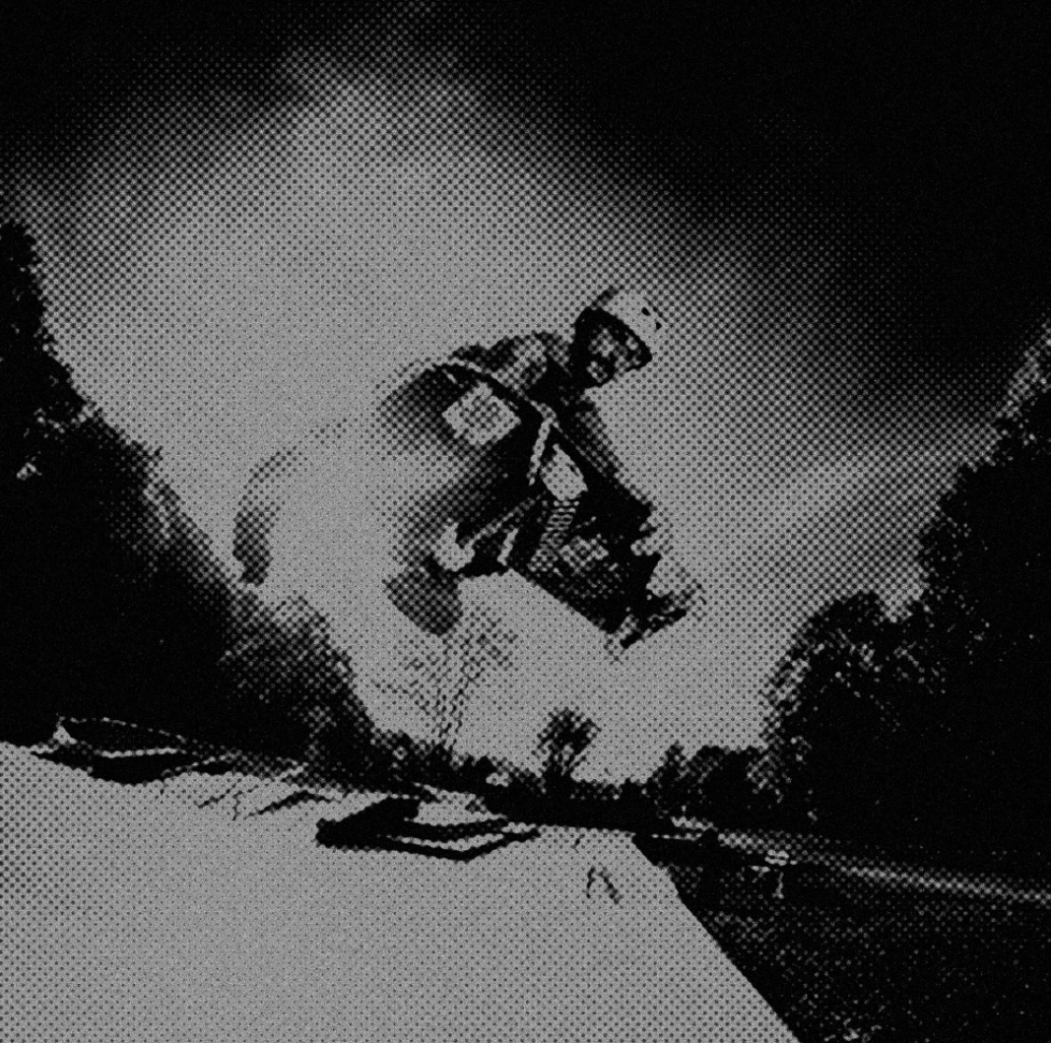
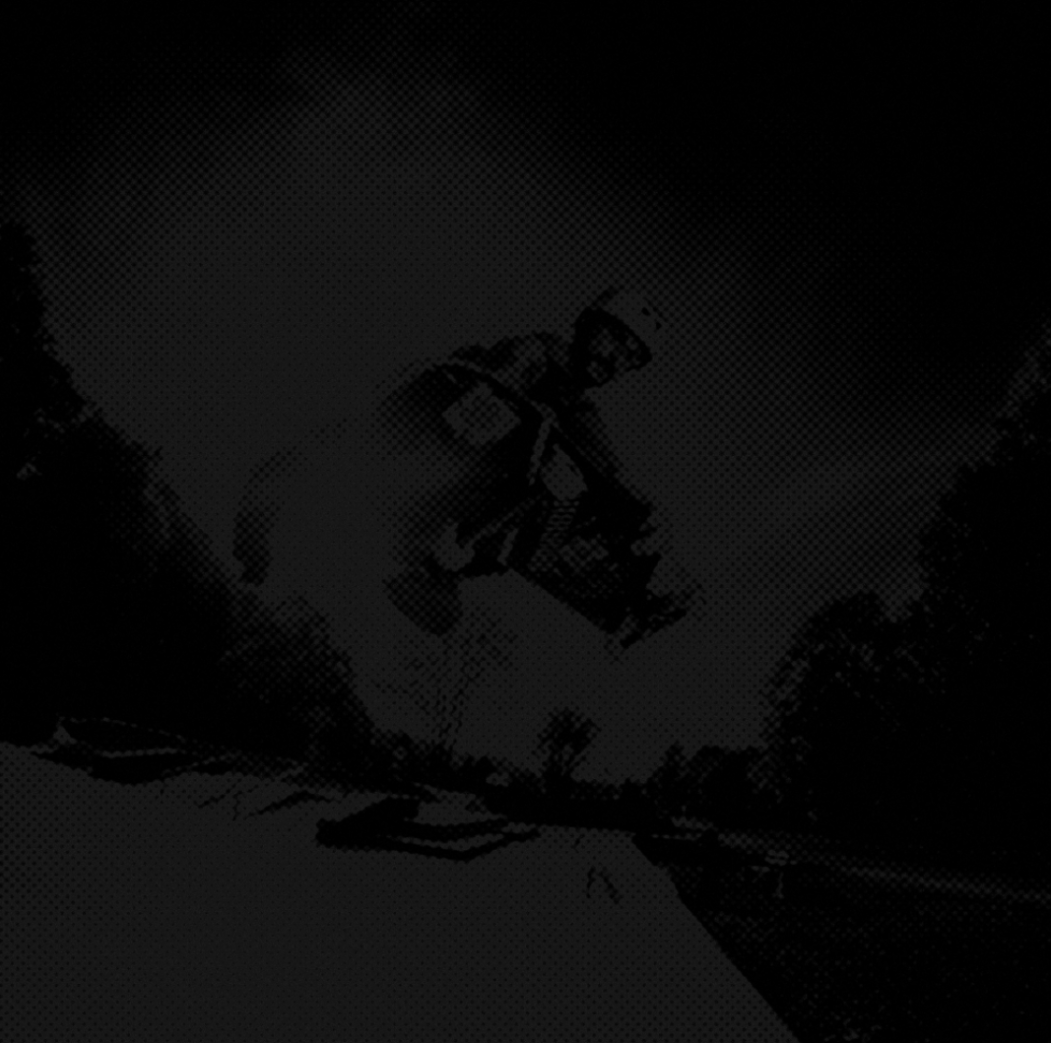
Home: Our Collection: Div Styling + bg Image file

diff --git a/client/src/app/pages/home/sections/our-collection/dummy data.ts b/client/src/app/pages/home/sections/our-collection/dummy data.ts
@@ -19,49 +19,48 @@ export const dummdata: object[] = [
         id: 1,
         type: 'legacy'
     },
-    {
-        id: 1,
-        type: 'legacy'
-    },
-    {
-        id: 1,
-        type: 'legacy'
-    },
-    {
-        id: 1,
-        type: 'legacy'
-    },
-    {
-        id: 1,
-        type: 'legacy'
-    },
-    {
-        id: 1,
-        type: 'legacy'
-    },
-    {
-        id: 1,
-        type: 'legacy'
-    },
-    {
-        id: 1,
-        type: 'legacy'
-    },
-    {
-        id: 1,
-        type: 'legacy'
-    },
-    {
-        id: 1,
-        type: 'legacy'
-    },
-    {
-        id: 1,
-        type: 'legacy'
-    },
-    {
-        id: 1,
-        type: 'legacy'
-    },
-
+    // {
+    //     id: 1,
+    //     type: 'legacy'
+    // },
+    // {
+    //     id: 1,
+    //     type: 'legacy'
+    // },
+    // {
+    //     id: 1,
+    //     type: 'legacy'
+    // },
+    // {
+    //     id: 1,
+    //     type: 'legacy'
+    // },
+    // {
+    //     id: 1,
+    //     type: 'legacy'
+    // },
+    // {
+    //     id: 1,
+    //     type: 'legacy'
+    // },
+    // {
+    //     id: 1,
+    //     type: 'legacy'
+    // },
+    // {
+    //     id: 1,
+    //     type: 'legacy'
+    // },
+    // {
+    //     id: 1,
+    //     type: 'legacy'
+    // },
+    // {
+    //     id: 1,
+    //     type: 'legacy'
+    // },
+    // {
+    //     id: 1,
+    //     type: 'legacy'
+    // },
 ]

diff --git a/client/src/app/pages/home/sections/our-collection/our-collection.component.css b/client/src/app/pages/home/sections/our-collection/our-collection.component.css
@@ -1,10 +1,13 @@
 .home-ourcollection {
-    border-top: 1px solid #2e2e2e;
+    border-top: 0.75px solid #292929;
     padding: 0 40px;
     padding-top: 60px !important;
+    padding-bottom: 60px !important;
     display: flex;
     flex-direction: column;
     gap: 20px;
+    background: url('../../../../../assets/img/4_raw.png');
+    object-fit: cover;
 }
 
 .home-ourcollection-top-wrap {
@@ -13,7 +16,11 @@
     align-items: center;
 }
 
-.home-ourcollection-top-heading {}
+.home-ourcollection-top-heading {
+    height: 120px;
+    /* display: flex;
+    justify-content: center; */
+}
 
 .home-ourcollection-top-heading-text {
     font-size: 48px;
@@ -22,9 +29,18 @@
     height: 120px;
     display: flex;
     align-items: center;
+    position: relative;
+    z-index: 1;
 }
 
-.home-ourcollection-top-heading-shadow {}
+.home-ourcollection-top-heading-shadow {
+    margin-top: -120px;
+    width: 100%;
+    height: 120px;
+    background: #080909;
+    border-radius: 60px;
+    filter: blur(50px);
+}
 
 .home-ourcollection-grid {
     /* padding: 20px; */
